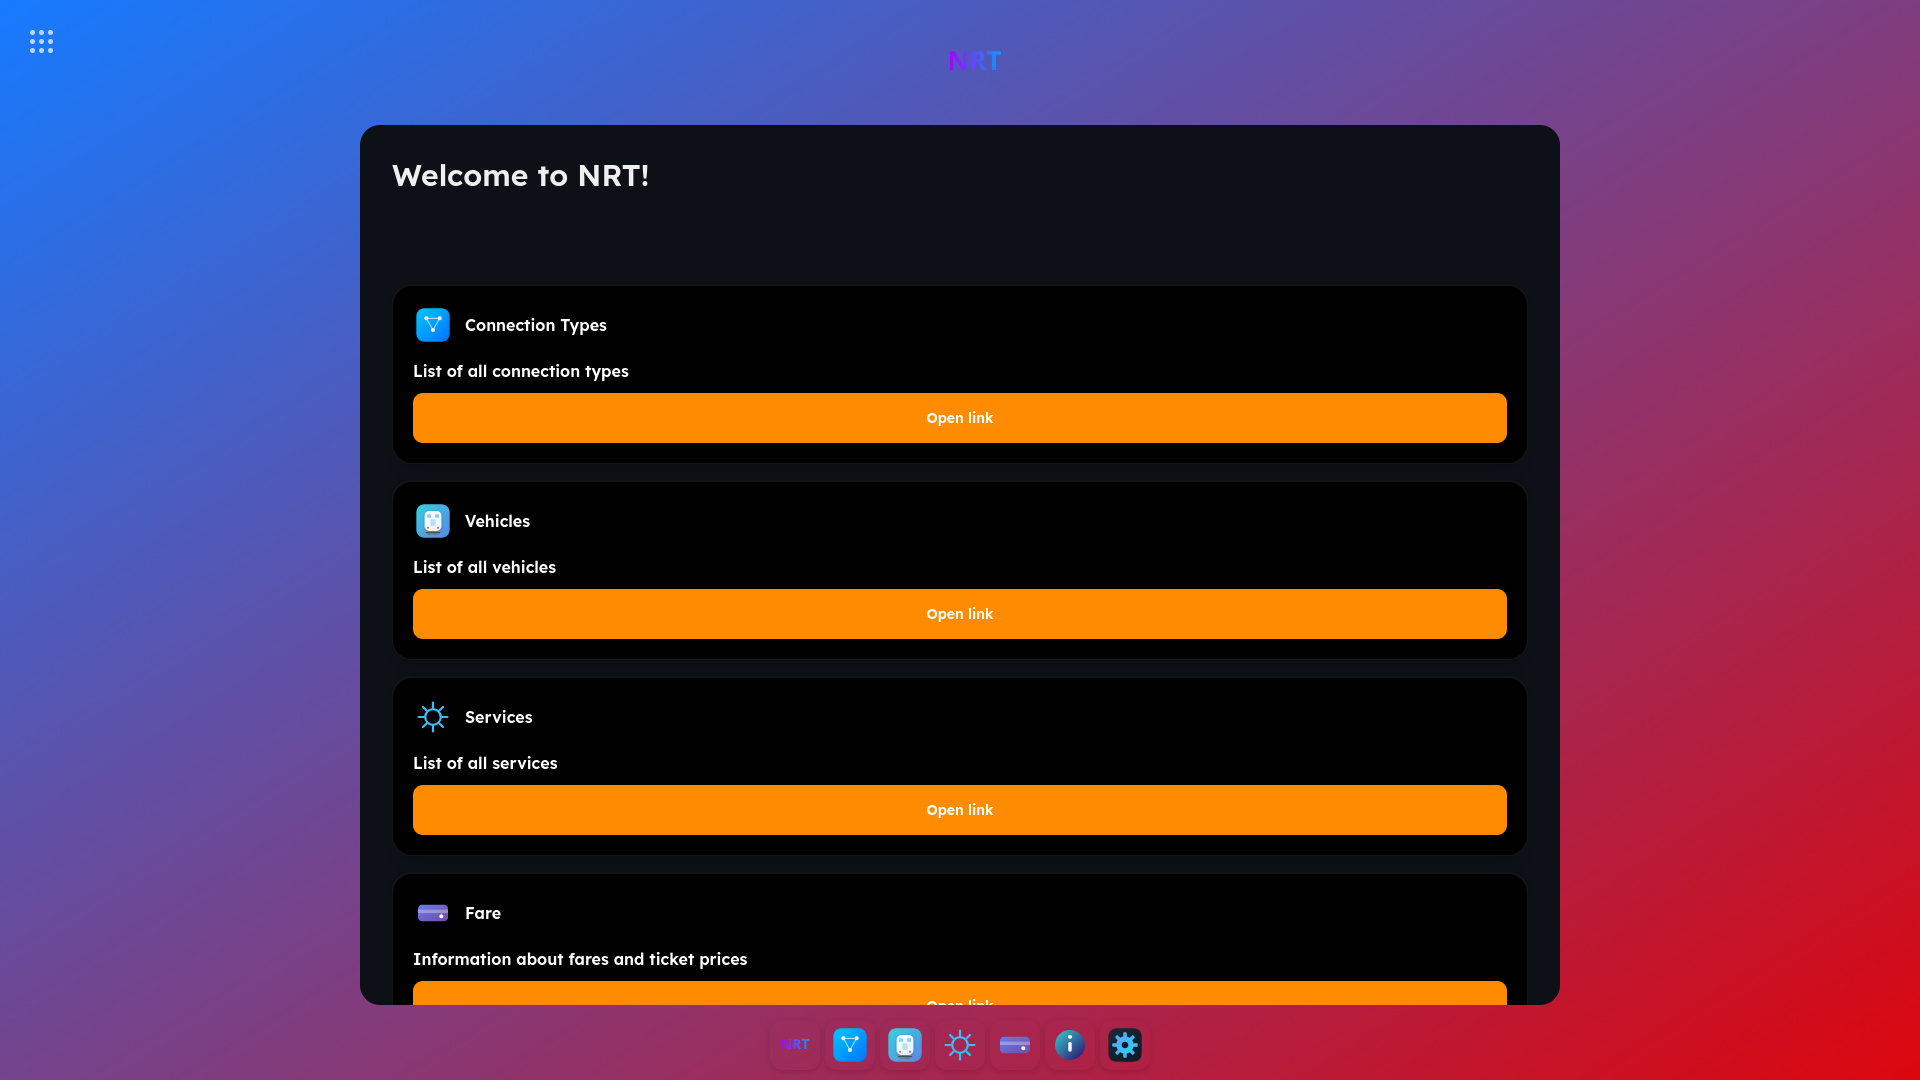
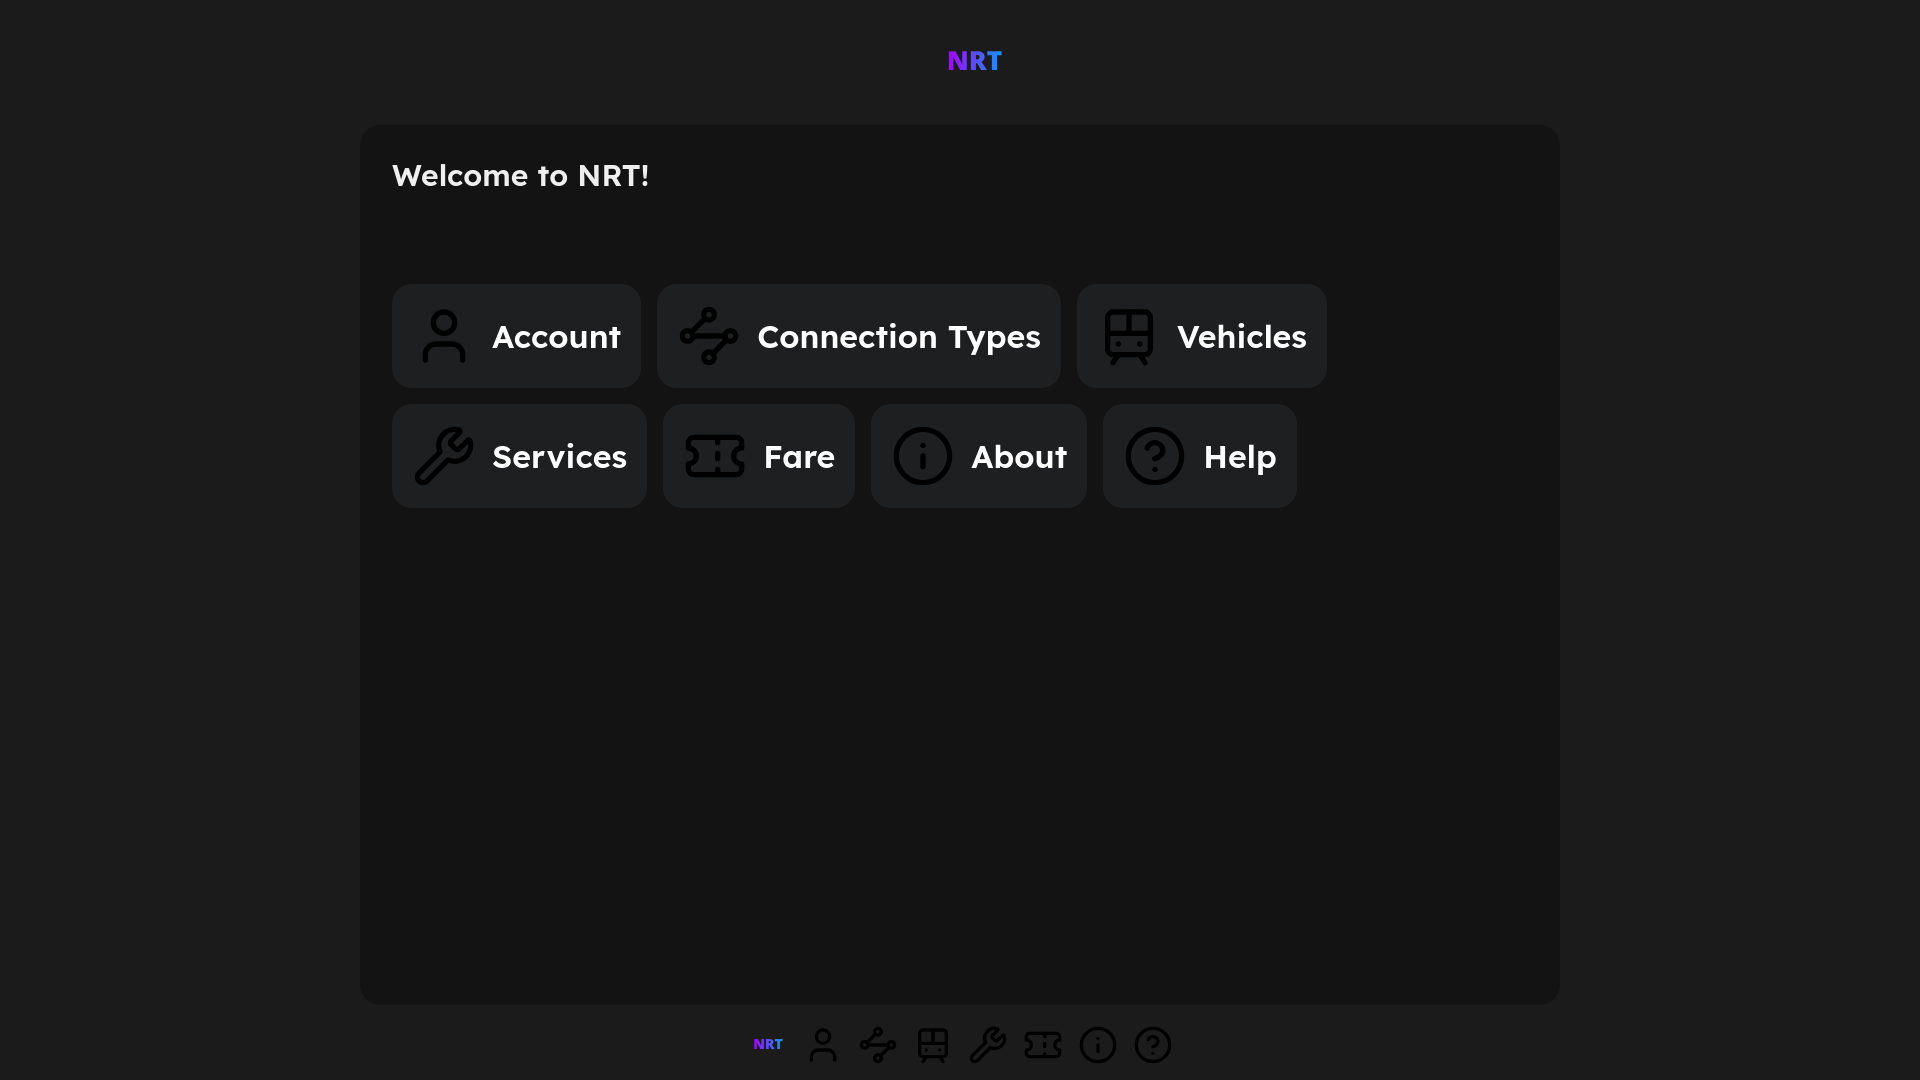
updated readme and home page screenshot

diff --git a/readme.md b/readme.md
@@ -1,36 +1,36 @@
 # Nether Republic Transport
 
-## Project Overview
-- Fictional transportation system
-- Created in November 2024
-
-
 ## Preview (Screenshots)
+
 <img src="img/screenshots/home-page.png">
 
-## Used Technologies
-<img src="https://www.w3.org/html/logo/downloads/HTML5_Logo_512.png" width="16px" height="16px">
-<span>HTML5</span>
-<br>
-<img src="https://upload.wikimedia.org/wikipedia/commons/6/62/CSS3_logo.svg" width="16px" height="16px">
-<span>CSS3</span>
-<br>
-<img src="https://upload.wikimedia.org/wikipedia/commons/6/6a/JavaScript-logo.png" width="16px" height="16px">
-<span>JavaScript</span>
-<br>
-<img src="https://js.nether.click/img/icons/favicon.png" width="16px" height="16px">
-<span>Nether.js</span>
-
 ## Requirements
+
 - Git
 - Node.js
 - npm
 
-## How to Try It on Your PC
+## Cloning Repository
+
 ```bash
 git clone https://github.com/dqnx19/nrt.git
 cd nrt
-npm init
-npm install
-firefox http://localhost:3000
 ```
+
+## Installing npm Dependencies
+
+```bash
+npm install
+```
+
+## Starting the Server
+
+```bash
+node server.js
+```
+
+## Opening in Browser
+
+Open the following URL in your browser:
+
+http://localhost:3000
